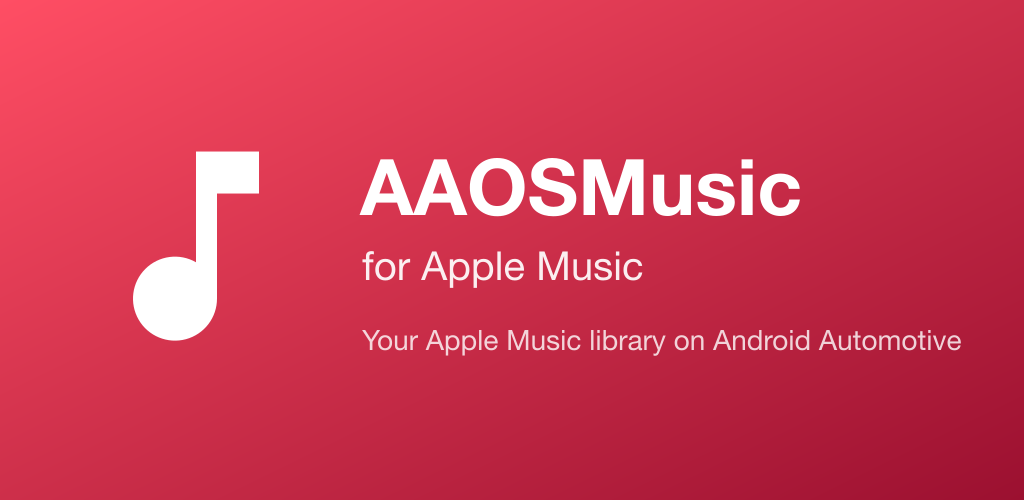
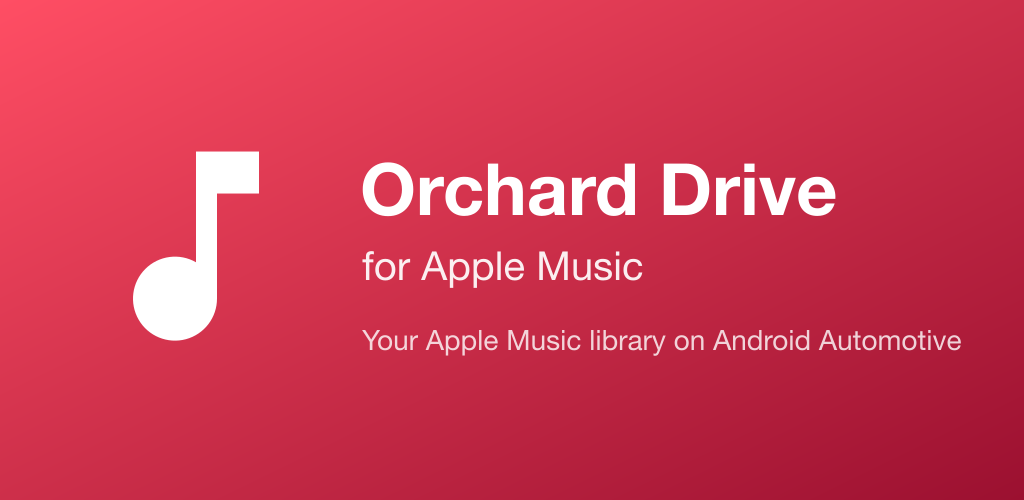
Rename the app to Orchard Drive
Display name, Application class, log tags, build artifacts, docs, privacy page and
store graphic. The Play applicationId (com.dverba.aaosmusic) and the Kotlin package
stay as they are.

Changed region(s): [[0.3438, 0.3, 0.8125, 0.45]]

diff --git a/app/src/main/java/com/aaosmusic/automotive/AutomotiveMusicService.kt b/app/src/main/java/com/aaosmusic/automotive/AutomotiveMusicService.kt
@@ -7,7 +7,7 @@ import androidx.media3.common.PlaybackException
 import androidx.media3.common.Player
 import androidx.media3.session.MediaLibraryService
 import androidx.media3.session.MediaSession
-import com.aaosmusic.AAOSMusicApp
+import com.aaosmusic.OrchardDriveApp
 import com.aaosmusic.R
 import com.aaosmusic.ui.MainActivity
 import com.aaosmusic.util.AppLog
@@ -40,7 +40,7 @@ class AutomotiveMusicService : MediaLibraryService() {
 
     override fun onCreate() {
         super.onCreate()
-        val app = application as AAOSMusicApp
+        val app = application as OrchardDriveApp
         AppLog.i(MEDIA_SESSION, "Service created (provider: ${app.repository.providerName})")
 
         val player = app.playbackProvider.createPlayer(this)
@@ -81,7 +81,7 @@ class AutomotiveMusicService : MediaLibraryService() {
 
     /** Preload the provider's library, then its artwork, in the background so browsing is fast. */
     private fun warmUp() {
-        val repo = (application as AAOSMusicApp).repository
+        val repo = (application as OrchardDriveApp).repository
         if (!repo.requiresSignIn()) scope.launch {
             runCatching { repo.warmUp() }
             prefetchArtwork()
@@ -114,7 +114,7 @@ class AutomotiveMusicService : MediaLibraryService() {
 
     /** New sign-in or sign-out: drop cached data and make AAOS re-browse from the root. */
     private val onAccountChanged: () -> Unit = {
-        val app = application as AAOSMusicApp
+        val app = application as OrchardDriveApp
         app.repository.clearCache()
         session?.let { s ->
             AppLog.i(MEDIA_SESSION, "Account changed; refreshing library")
@@ -135,7 +135,7 @@ class AutomotiveMusicService : MediaLibraryService() {
             AppLog.i(MEDIA_SESSION, "Browse layout changed (grid: ${layout.grid}); refreshing library")
             MediaIds.FIXED.forEach { s.notifyChildrenChanged(it, Int.MAX_VALUE, null) }
         }
-        if (!(application as AAOSMusicApp).repository.requiresSignIn()) prefetchArtwork()
+        if (!(application as OrchardDriveApp).repository.requiresSignIn()) prefetchArtwork()
     }
 
     /** A sort row was tapped: re-send Playlists in the new order. */
@@ -163,7 +163,7 @@ class AutomotiveMusicService : MediaLibraryService() {
     override fun onDestroy() {
         AppLog.i(MEDIA_SESSION, "Service destroyed")
         session?.player?.let(lastQueue::save)
-        (application as AAOSMusicApp).appleTokens.removeListener(onAccountChanged)
+        (application as OrchardDriveApp).appleTokens.removeListener(onAccountChanged)
         layout.removeListener(onLayoutChanged)
         playlistSort.removeListener(onPlaylistSortChanged)
         session?.run {

diff --git a/app/src/main/java/com/aaosmusic/ui/DiagnosticsActivity.kt b/app/src/main/java/com/aaosmusic/ui/DiagnosticsActivity.kt
@@ -13,7 +13,7 @@ import androidx.media3.common.MediaItem
 import androidx.media3.common.Player
 import androidx.media3.session.MediaController
 import androidx.media3.session.SessionToken
-import com.aaosmusic.AAOSMusicApp
+import com.aaosmusic.OrchardDriveApp
 import com.aaosmusic.BuildConfig
 import com.aaosmusic.automotive.AutomotiveMusicService
 import com.aaosmusic.automotive.MediaIds
@@ -96,7 +96,7 @@ class DiagnosticsActivity : ComponentActivity() {
                 text = "Simulate expired sign-in"
                 textSize = 20f
                 setOnClickListener {
-                    val app = application as AAOSMusicApp
+                    val app = application as OrchardDriveApp
                     if (app.appleTokens.userToken == null) return@setOnClickListener
                     app.appleTokens.userToken = "expired-test-token"
                     text = "Sign-in invalidated: open Media to see the prompt"
@@ -123,7 +123,7 @@ class DiagnosticsActivity : ComponentActivity() {
     }
 
     private fun render() {
-        val app = application as AAOSMusicApp
+        val app = application as OrchardDriveApp
         val c = controller
         val item = c?.currentMediaItem?.mediaMetadata
         val state = when (c?.playbackState) {

diff --git a/app/src/main/java/com/aaosmusic/util/AppLog.kt b/app/src/main/java/com/aaosmusic/util/AppLog.kt
@@ -6,8 +6,8 @@ import java.util.Date
 import java.util.Locale
 
 /**
- * Structured logging. Every line is tagged `AAOSMusic/<CATEGORY>` so logcat can be filtered with
- * e.g. `adb logcat -s AAOSMusic/PLAYBACK AAOSMusic/AAOS_LIBRARY`.
+ * Structured logging. Every line is tagged `OrchardDrive/<CATEGORY>` so logcat can be filtered with
+ * e.g. `adb logcat -s OrchardDrive/PLAYBACK OrchardDrive/AAOS_LIBRARY`.
  *
  * The last [BUFFER_LINES] lines are also kept in memory for in-car debug reports (the car has no
  * adb). Never pass raw credentials; use [redact].
@@ -40,7 +40,7 @@ object AppLog {
     fun snapshot(): List<String> = synchronized(buffer) { buffer.toList() }
 
     private fun log(priority: Int, category: Category, message: String, t: Throwable?) {
-        val tag = "AAOSMusic/${category.name}"
+        val tag = "OrchardDrive/${category.name}"
         if (t == null) Log.println(priority, tag, message) else Log.println(priority, tag, message + "\n" + Log.getStackTraceString(t))
         val level = "??VDIWEA"[priority.coerceIn(Log.VERBOSE, Log.ASSERT)] // Log.VERBOSE == 2
         val line = buildString {

diff --git a/relay/web/privacy.html b/relay/web/privacy.html
@@ -1,12 +1,12 @@
 <!doctype html>
 <html lang="en"><head><meta charset="utf-8"><meta name="viewport" content="width=device-width, initial-scale=1">
-<title>AAOSMusic for Apple Music: Privacy Policy</title>
+<title>Orchard Drive: Privacy Policy</title>
 <style>body{font:16px/1.55 -apple-system,BlinkMacSystemFont,"Segoe UI",Roboto,sans-serif;max-width:720px;margin:40px auto;padding:0 16px;color:#1d1d1f;background:#fff}
 @media (prefers-color-scheme:dark){body{color:#f5f5f7;background:#000}}h1{font-size:28px}h2{font-size:19px;margin-top:28px}</style></head>
 <body>
-<h1>AAOSMusic for Apple Music: Privacy Policy</h1>
+<h1>Orchard Drive: Privacy Policy</h1>
 <p>Last updated: 7 October 2026</p>
-<p>AAOSMusic for Apple Music ("the app") is an independent player that lets Apple Music subscribers play
+<p>Orchard Drive ("the app") is an independent player that lets Apple Music subscribers play
 their own Apple Music library in cars running Android Automotive OS. It is not affiliated with, endorsed
 by, or sponsored by Apple Inc. Apple and Apple Music are trademarks of Apple Inc.</p>
 

diff --git a/relay/web/index.html b/relay/web/index.html
@@ -50,7 +50,7 @@
 </main>
 
 <script>
-  // Supabase relay (see relay/supabase/functions/signin in the AAOSMusic repo).
+  // Supabase relay (see relay/supabase/functions/signin in the Orchard Drive repo).
   const RELAY = "https://tlrznrkphtyhuzvsjfis.supabase.co/functions/v1/signin";
 
   const $ = (id) => document.getElementById(id);
@@ -83,7 +83,7 @@
       if (!r.ok) throw new Error("This code has expired. Start sign-in again in the car.");
       if (s.status === "complete") { done(); return; }
       await loadMusicKit();
-      const mk = await MusicKit.configure({ developerToken: s.developer_token, app: { name: "AAOSMusic", build: "1.0" } });
+      const mk = await MusicKit.configure({ developerToken: s.developer_token, app: { name: "Orchard Drive", build: "1.0" } });
       // Apple may hand the token back via a reload/redirect or an event rather than resolving
       // authorize(); catch it whichever way it arrives.
       mk.addEventListener("authorizationStatusDidChange", () => {

diff --git a/app/src/main/java/com/aaosmusic/util/DebugReport.kt b/app/src/main/java/com/aaosmusic/util/DebugReport.kt
@@ -4,7 +4,7 @@ import android.app.Application
 import android.content.Context
 import android.os.Build
 import android.os.Process
-import com.aaosmusic.AAOSMusicApp
+import com.aaosmusic.OrchardDriveApp
 import com.aaosmusic.BuildConfig
 import com.aaosmusic.util.AppLog.Category.APP
 import kotlinx.coroutines.Dispatchers
@@ -46,8 +46,8 @@ object DebugReport {
     }
 
     fun build(app: Application, extra: String = ""): String = AppLog.scrub(buildString {
-        val a = app as AAOSMusicApp
-        appendLine("AAOSMusic debug report")
+        val a = app as OrchardDriveApp
+        appendLine("Orchard Drive debug report")
         appendLine("App        ${BuildConfig.VERSION_NAME} (${BuildConfig.VERSION_CODE}) ${BuildConfig.BUILD_TYPE}")
         appendLine("Device     ${Build.MANUFACTURER} ${Build.MODEL} (${Build.DEVICE})")
         appendLine("Android    ${Build.VERSION.RELEASE} API ${Build.VERSION.SDK_INT}, ${Build.FINGERPRINT}")

diff --git a/app/src/main/java/com/aaosmusic/ui/AppleMusicTestActivity.kt b/app/src/main/java/com/aaosmusic/ui/AppleMusicTestActivity.kt
@@ -13,7 +13,7 @@ import androidx.activity.result.contract.ActivityResultContracts
 import androidx.lifecycle.lifecycleScope
 import androidx.media3.common.MediaItem
 import androidx.media3.exoplayer.ExoPlayer
-import com.aaosmusic.AAOSMusicApp
+import com.aaosmusic.OrchardDriveApp
 import com.aaosmusic.BuildConfig
 import com.aaosmusic.providers.apple.AppleMusicApiClient
 import com.aaosmusic.providers.apple.AppleMusicTokenStore
@@ -61,7 +61,7 @@ class AppleMusicTestActivity : ComponentActivity() {
     override fun onCreate(savedInstanceState: Bundle?) {
         super.onCreate(savedInstanceState)
         // Shared instance: the media service listens on it to refresh AAOS after sign-in.
-        tokens = (application as AAOSMusicApp).appleTokens
+        tokens = (application as OrchardDriveApp).appleTokens
         api = AppleMusicApiClient(tokens)
         buildUi()
         consumeInjectedToken(intent)

diff --git a/app/src/debug/java/com/aaosmusic/debug/InstallProbeActivity.kt b/app/src/debug/java/com/aaosmusic/debug/InstallProbeActivity.kt
@@ -17,7 +17,7 @@ class InstallProbeActivity : Activity() {
         super.onCreate(savedInstanceState)
         val apk = File(cacheDir, "probe/probe.apk").apply { parentFile!!.mkdirs() }
         File(applicationInfo.sourceDir).copyTo(apk, overwrite = true)
-        Log.i("AAOSMusic/APP", "InstallProbe: canRequestPackageInstalls=${packageManager.canRequestPackageInstalls()}")
+        Log.i("OrchardDrive/APP", "InstallProbe: canRequestPackageInstalls=${packageManager.canRequestPackageInstalls()}")
         val uri = FileProvider.getUriForFile(this, "$packageName.probe", apk)
         startActivity(Intent(Intent.ACTION_VIEW).setDataAndType(uri, "application/vnd.android.package-archive")
             .addFlags(Intent.FLAG_GRANT_READ_URI_PERMISSION))

diff --git a/app/src/main/java/com/aaosmusic/ui/MainActivity.kt b/app/src/main/java/com/aaosmusic/ui/MainActivity.kt
@@ -9,7 +9,7 @@ import android.widget.Switch
 import android.widget.Toast
 import androidx.activity.ComponentActivity
 import androidx.lifecycle.lifecycleScope
-import com.aaosmusic.AAOSMusicApp
+import com.aaosmusic.OrchardDriveApp
 import com.aaosmusic.BuildConfig
 import com.aaosmusic.automotive.BrowseLayoutStore
 import com.aaosmusic.providers.apple.CellularQualitySetting
@@ -26,7 +26,7 @@ class MainActivity : ComponentActivity() {
 
     override fun onCreate(savedInstanceState: Bundle?) {
         super.onCreate(savedInstanceState)
-        val app = application as AAOSMusicApp
+        val app = application as OrchardDriveApp
         val column = LinearLayout(this)
 
         column.addView(SettingsUi.section(this, "Apple Music"))

diff --git a/app/src/main/java/com/aaosmusic/OrchardDriveApp.kt b/app/src/main/java/com/aaosmusic/OrchardDriveApp.kt
@@ -19,7 +19,7 @@ import com.aaosmusic.util.DebugReport
 import com.aaosmusic.util.AppLog.Category.APP
 
 /** Wires providers from feature flags. The only place that knows which provider is active. */
-class AAOSMusicApp : Application() {
+class OrchardDriveApp : Application() {
 
     lateinit var repository: MusicRepository
         private set

diff --git a/app/src/main/java/com/aaosmusic/automotive/LibraryTree.kt b/app/src/main/java/com/aaosmusic/automotive/LibraryTree.kt
@@ -88,7 +88,7 @@ class LibraryTree(
     }
 
     data class Labels(
-        val appName: String = "AAOSMusic for Apple Music",
+        val appName: String = "Orchard Drive",
         val home: String = "Home",
         val library: String = "Library",
         val recent: String = "Recently Played",

diff --git a/relay/supabase/functions/signin/index.ts b/relay/supabase/functions/signin/index.ts
@@ -1,4 +1,4 @@
-// QR sign-in relay for AAOSMusic.
+// QR sign-in relay for Orchard Drive.
 //
 // The car can't run Apple's sign-in (no Apple Music app on AAOS), so the user signs in on their
 // phone instead:
